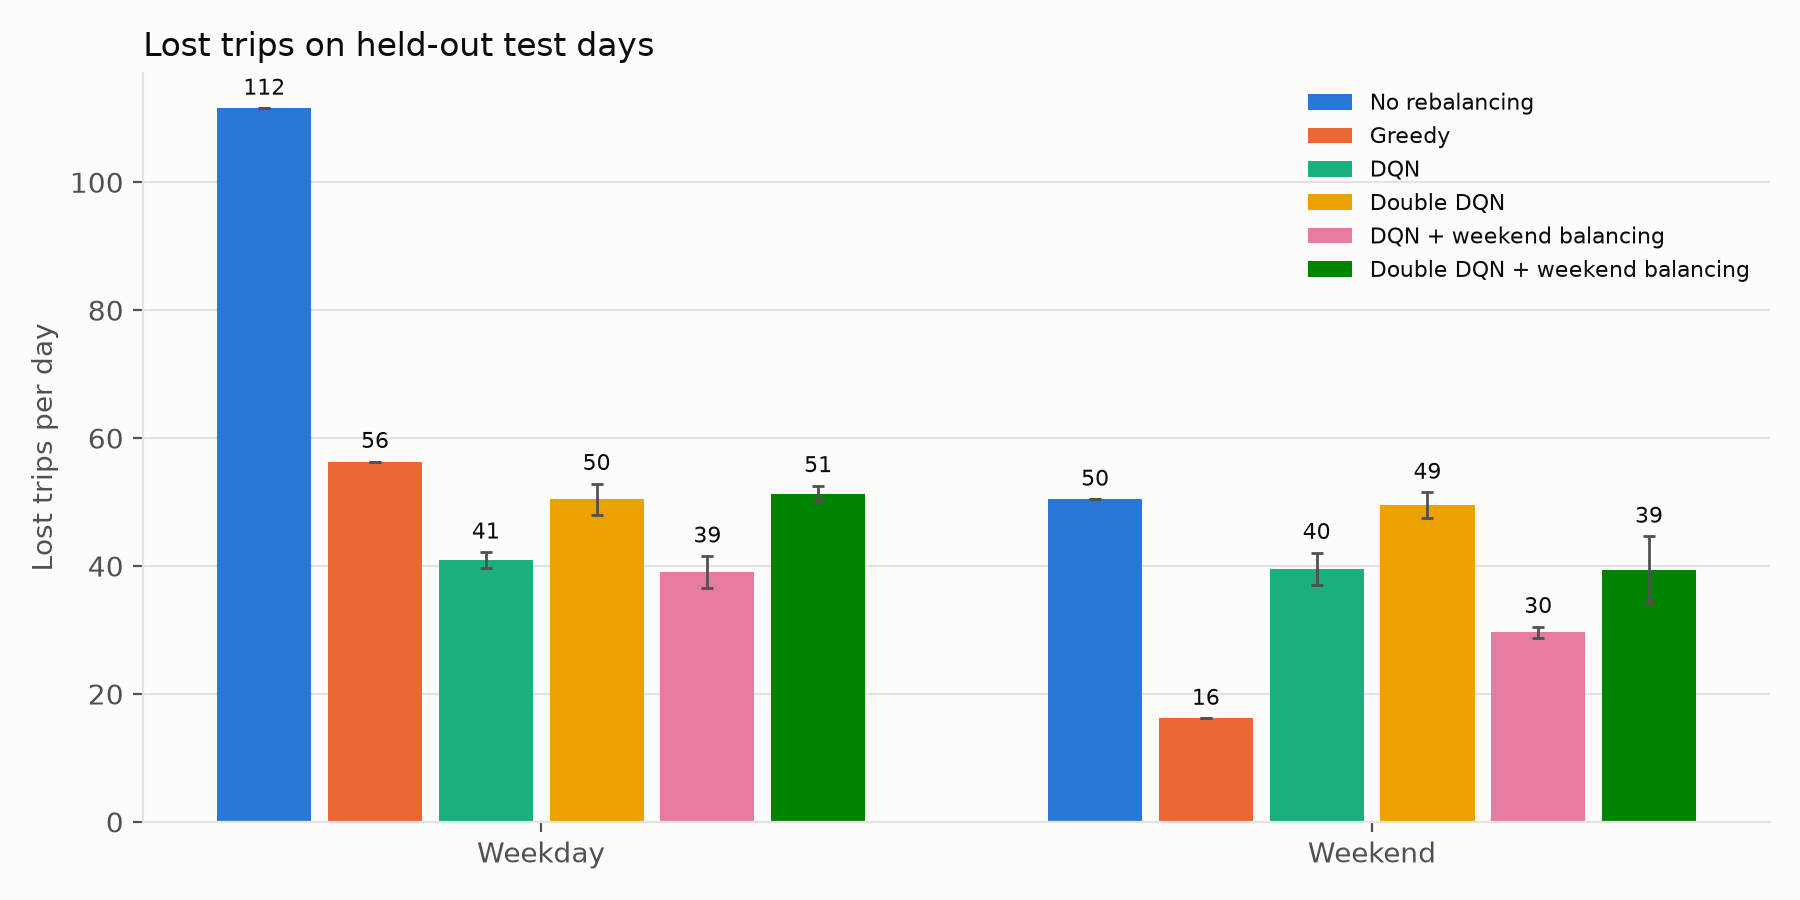
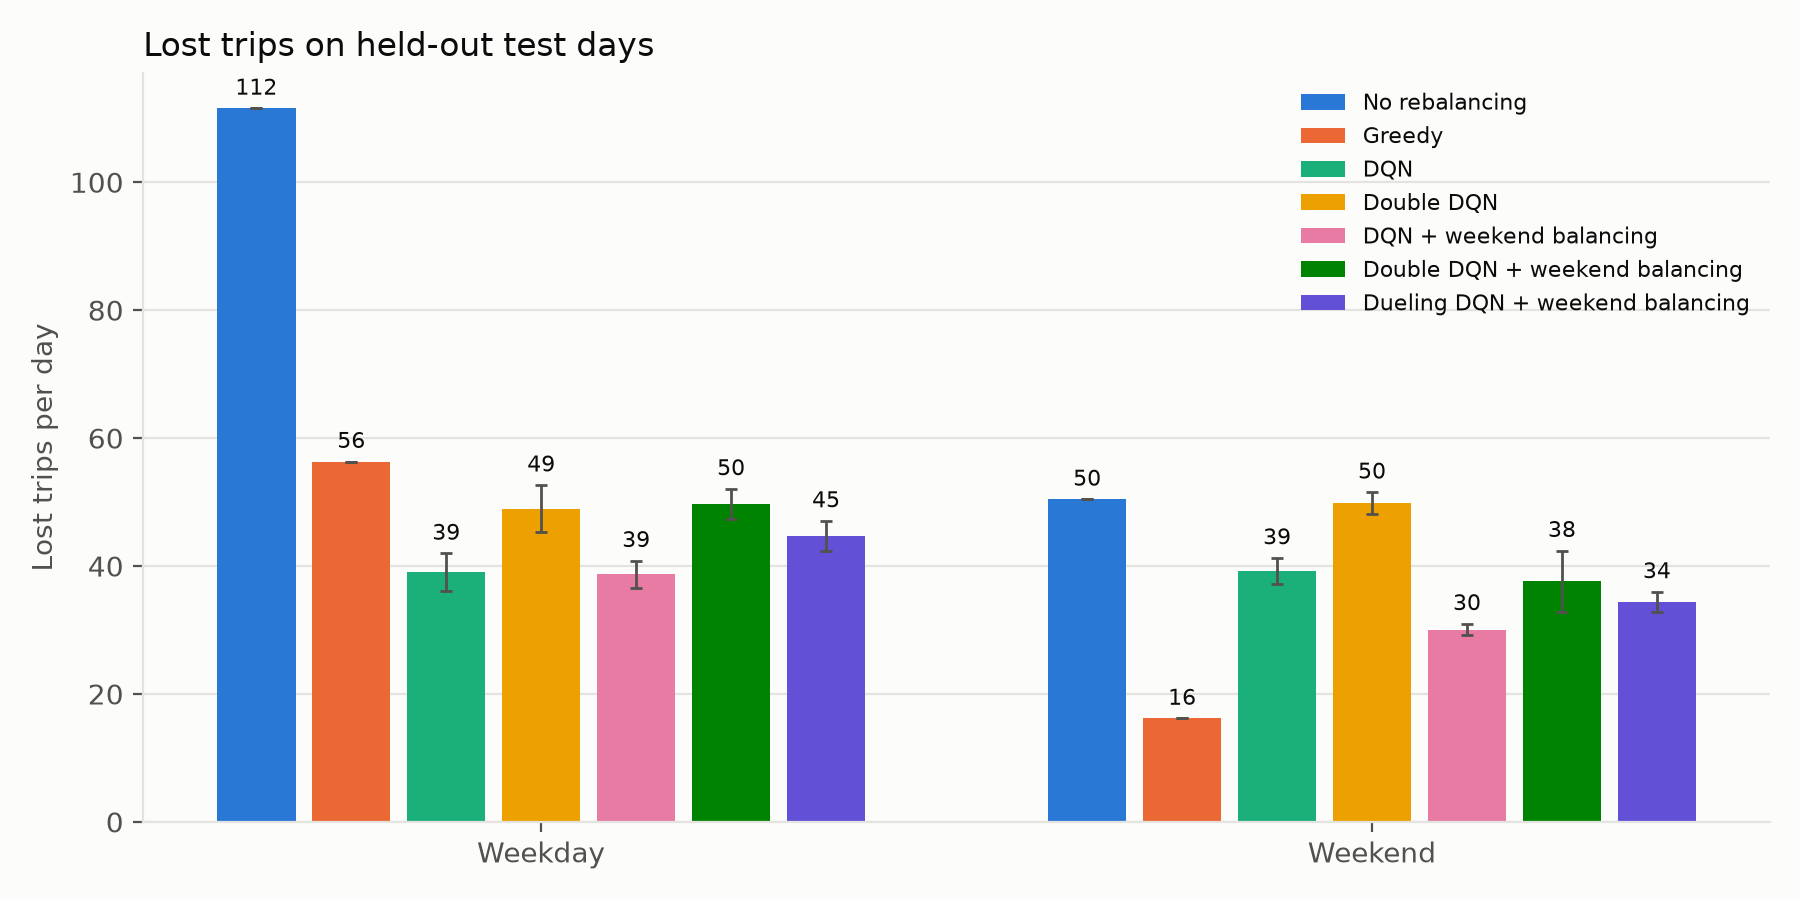
Dueling, distance penalty and 50-station results with 5 seeds

diff --git a/plot_results.py b/plot_results.py
@@ -10,19 +10,23 @@ from matplotlib.colors import LinearSegmentedColormap
 
 from baselines import evaluate, greedy, no_rebalance
 from bike_rebalance_env import BikeRebalanceEnv
-from train_dqn import RESULTS, run_name
+from train_dqn import RESULTS, demand_path, run_name
 
 FIGURES = Path(__file__).parent / "figures"
-SEEDS = [0, 1, 2]
+SEEDS = [0, 1, 2, 3, 4]
+SWEEP_SEEDS = [0, 1, 2]
 VARIANTS = {
-    "DQN": (False, False),
-    "Double DQN": (True, False),
-    "DQN + weekend balancing": (False, True),
-    "Double DQN + weekend balancing": (True, True),
+    "DQN": {},
+    "Double DQN": {"double": True},
+    "DQN + weekend balancing": {"balance_weekends": True},
+    "Double DQN + weekend balancing": {"double": True, "balance_weekends": True},
+    "Dueling DQN + weekend balancing": {"dueling": True, "balance_weekends": True},
 }
+DISTANCE_PENALTIES = [0, 0.1, 0.3, 1]
 COLORS = {
     "No rebalancing": "#2a78d6", "Greedy": "#eb6834", "DQN": "#1baf7a", "Double DQN": "#eda100",
     "DQN + weekend balancing": "#e87ba4", "Double DQN + weekend balancing": "#008300",
+    "Dueling DQN + weekend balancing": "#6250d6",
 }
 INK, MUTED, GRID, SURFACE = "#0b0b0b", "#52514e", "#e4e3df", "#fcfcfb"
 BLUES = LinearSegmentedColormap.from_list(
@@ -44,10 +48,16 @@ def daily_reward(rows):
     return -(rows[:, 1] + 0.1 * rows[:, 3]).mean()
 
 
+def test_rows(seeds, **kwargs):
+    kwargs = {"double": False, "balance_weekends": False, **kwargs}
+    return [np.load(RESULTS / f"{run_name(seed = s, **kwargs)}_test.npz")["rows"] for s in seeds]
+
+
 def load_runs():
     runs = {}
-    for label, (double, wb) in VARIANTS.items():
-        names = [run_name(double, wb, s) for s in SEEDS]
+    for label, kwargs in VARIANTS.items():
+        kwargs = {"double": False, "balance_weekends": False, **kwargs}
+        names = [run_name(seed = s, **kwargs) for s in SEEDS]
         tests = [np.load(RESULTS / f"{n}_test.npz") for n in names]
         runs[label] = {
             "rows": [t["rows"] for t in tests],
@@ -115,6 +125,30 @@ def heatmaps(panels, station_ids, weekdays):
     fig.savefig(FIGURES / "lost_trips_heatmap.png", dpi = 200, bbox_inches = "tight")
 
 
+def distance_tradeoff(table):
+    sweep = [summary(test_rows(SWEEP_SEEDS, balance_weekends = True, distance_penalty = dp)) for dp in DISTANCE_PENALTIES]
+    fig, ax = plt.subplots(figsize = (7, 4.5), facecolor = SURFACE)
+    style(ax)
+    ax.xaxis.grid(True, color = GRID, linewidth = 0.8)
+    name = "DQN + weekend balancing"
+    km, lost = [s["km"][0] for s in sweep], [s["lost"][0] for s in sweep]
+    ax.errorbar(km, lost, xerr = [s["km"][1] for s in sweep], yerr = [s["lost"][1] for s in sweep],
+                color = COLORS[name], linewidth = 2, marker = "o", markersize = 8, ecolor = MUTED, elinewidth = 1,
+                capsize = 2, label = f"{name} ({len(SWEEP_SEEDS)} seeds)")
+    for dp, x, y in zip(DISTANCE_PENALTIES, km, lost):
+        ax.annotate(f"penalty {dp:g}", (x, y), xytext = (8, 6), textcoords = "offset points", color = INK, fontsize = 8)
+    for base in ["No rebalancing", "Greedy"]:
+        ax.plot(table[base]["km"][0], table[base]["lost"][0], marker = "s", markersize = 9,
+                color = COLORS[base], linestyle = "none", label = base)
+    ax.set_xlabel("Van km per day", color = MUTED)
+    ax.set_ylabel("Lost trips per day", color = MUTED)
+    ax.set_title("Distance penalty: lost trips vs. driving (test days)", color = INK, loc = "left")
+    ax.legend(frameon = False, labelcolor = INK, fontsize = 8)
+    fig.tight_layout()
+    fig.savefig(FIGURES / "dqn_distance_penalty.png", dpi = 200)
+    return sweep
+
+
 def summary(rows_list):
     stats = lambda f: (np.mean([f(r) for r in rows_list]), np.std([f(r) for r in rows_list]))
     return {
@@ -144,11 +178,18 @@ def main():
     heatmaps({"No rebalancing": base_test["No rebalancing"][1], "Greedy": base_test["Greedy"][1],
               best: runs[best]["heat"]}, env.station_ids, env.weekdays)
 
+    sweep = distance_tradeoff(table)
+    big = {n: summary([evaluate(p, demand_path = demand_path(50))]) for n, p in baselines.items()}
+    big["DQN + weekend balancing"] = summary(test_rows(SWEEP_SEEDS, balance_weekends = True, stations = 50))
+
     fmt = lambda s: f"{s[0]:.1f} ± {s[1]:.1f}" if s[1] else f"{s[0]:.1f}"
-    print("| Policy | Lost/day | Lost % | Weekday lost/day | Weekend lost/day | Van km/day |")
-    print("|---|---|---|---|---|---|")
-    for n, s in table.items():
-        print(f"| {n} | {fmt(s['lost'])} | {s['pct'][0]:.2f}% | {fmt(s['weekday'])} | {fmt(s['weekend'])} | {fmt(s['km'])} |")
+    for title, t in [("20 stations", table),
+                     ("DQN + weekend balancing, distance penalty", {f"penalty {dp:g}": s for dp, s in zip(DISTANCE_PENALTIES, sweep)}),
+                     ("50 stations", big)]:
+        print(f"\n{title}\n| Policy | Lost/day | Lost % | Weekday lost/day | Weekend lost/day | Van km/day |")
+        print("|---|---|---|---|---|---|")
+        for n, s in t.items():
+            print(f"| {n} | {fmt(s['lost'])} | {s['pct'][0]:.2f}% | {fmt(s['weekday'])} | {fmt(s['weekend'])} | {fmt(s['km'])} |")
 
 
 if __name__ == "__main__":

diff --git a/README.md b/README.md
@@ -28,14 +28,22 @@ python baselines.py                  # no-rebalancing and greedy on held-out tes
 python train_dqn.py --seed 0                               # DQN, 1M steps, saves model and test results to results/
 python train_dqn.py --seed 0 --double                      # Double DQN
 python train_dqn.py --seed 0 --balance-weekends            # sample weekend days as often as weekdays in training
-python plot_results.py                                     # needs all 4 variants for seeds 0-1-2; writes figures/
+python train_dqn.py --seed 0 --dueling                     # Dueling DQN
+python train_dqn.py --seed 0 --distance-penalty 0.3        # reward = -lost - 0.3 * km (default 0.1)
+python train_dqn.py --seed 0 --stations 50                 # needs data/build_demand.py --n-stations 50
+python plot_results.py                                     # needs every run below; writes figures/ and prints tables
 ```
 
-All 12 runs in parallel:
+All runs in parallel (45 runs, about 45 min on 18 cores):
 
 ```
-for seed in 0 1 2; do for flags in "" "--double" "--balance-weekends" "--double --balance-weekends"; do
-  OMP_NUM_THREADS=1 python train_dqn.py --seed $seed $flags & done; done; wait
+python data/build_demand.py --n-stations 50
+for seed in 0 1 2 3 4; do
+  for flags in "" "--double" "--balance-weekends" "--double --balance-weekends" "--dueling --balance-weekends"; do
+    OMP_NUM_THREADS=1 python train_dqn.py --seed $seed $flags & done; done
+for seed in 0 1 2; do
+  for flags in "--distance-penalty 0" "--distance-penalty 0.3" "--distance-penalty 1" "--stations 50"; do
+    OMP_NUM_THREADS=1 python train_dqn.py --seed $seed --balance-weekends $flags & done; done; wait
 ```
 
 ## PPO
